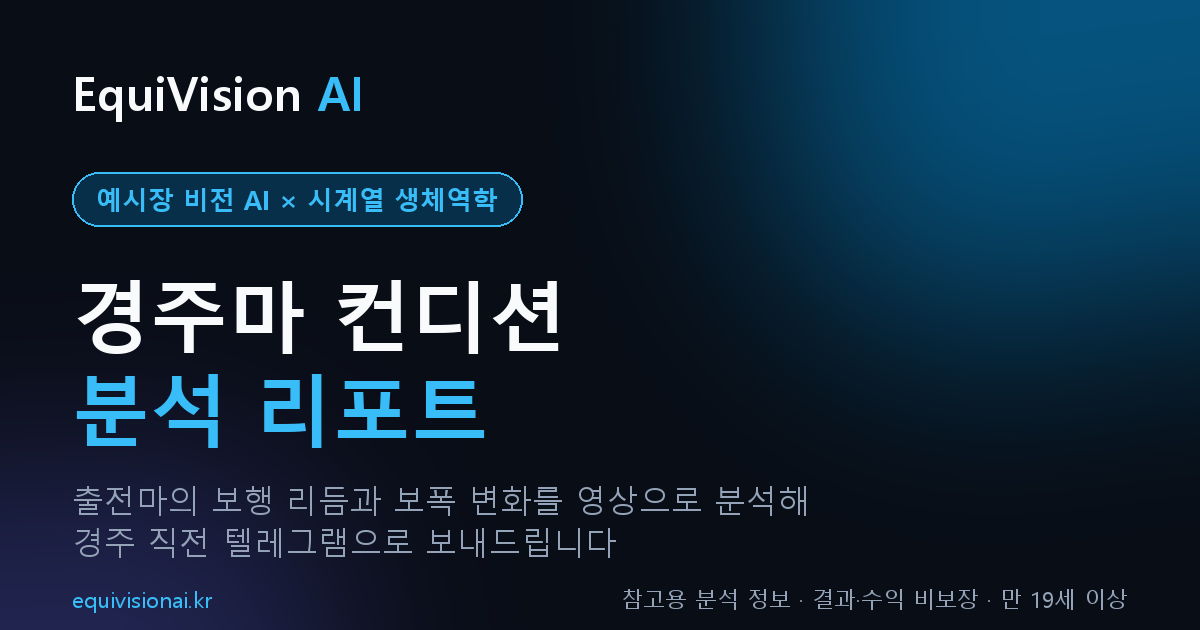
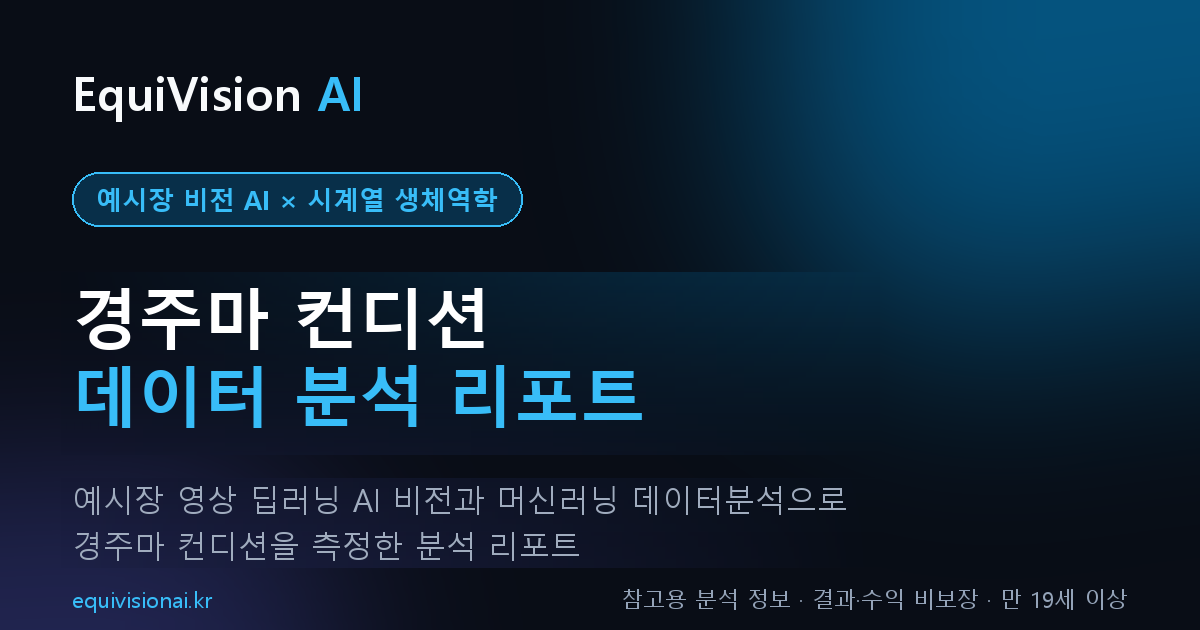
사이트 업데이트 2026-11-06 10:38

Changed region(s): [[0.0617, 0.4222, 0.6167, 0.7238], [0.0617, 0.754, 0.7092, 0.9048]]

diff --git a/index.html b/index.html
@@ -20,17 +20,17 @@
   <meta property="og:type" content="website">
   <meta property="og:locale" content="ko_KR">
   <meta property="og:site_name" content="EquiVision AI">
-  <meta property="og:title" content="이퀴비젼에이아이 | 경주마 생체역학 비전 AI">
-  <meta property="og:description" content="예시장 영상 다중 관절 추적과 시계열 생체역학 모델로 경주마 컨디션을 정량 데이터로 분석합니다.">
+  <meta property="og:title" content="이퀴비젼에이아이 | 경주마 컨디션 데이터 분석 리포트">
+  <meta property="og:description" content="머신러닝 데이터 분석과 예시장 영상 딥러닝 AI 비전으로 경주마 컨디션을 측정한 분석 리포트 (참고용 정보)">
   <meta property="og:url" content="https://equivisionai.kr/">
   <meta property="og:image" content="https://equivisionai.kr/og-image.png">
   <meta property="og:image:width" content="1200">
   <meta property="og:image:height" content="630">
-  <meta property="og:image:alt" content="EquiVision AI 경주마 컨디션 분석 리포트">
+  <meta property="og:image:alt" content="EquiVision AI 경주마 컨디션 데이터 분석 리포트">
   <meta name="twitter:card" content="summary_large_image">
   <meta name="twitter:image" content="https://equivisionai.kr/og-image.png">
-  <meta name="twitter:title" content="이퀴비젼에이아이 | 경주마 생체역학 비전 AI">
-  <meta name="twitter:description" content="예시장 영상 다중 관절 추적과 시계열 생체역학 모델로 경주마 컨디션을 정량 데이터로 분석합니다.">
+  <meta name="twitter:title" content="이퀴비젼에이아이 | 경주마 컨디션 데이터 분석 리포트">
+  <meta name="twitter:description" content="머신러닝 데이터 분석과 예시장 영상 딥러닝 AI 비전으로 경주마 컨디션을 측정한 분석 리포트 (참고용 정보)">
 
   <link rel="icon" href="favicon.ico" sizes="any">
   <link rel="apple-touch-icon" href="apple-touch-icon.png">

diff --git a/store.html b/store.html
@@ -12,15 +12,15 @@
   <meta property="og:url" content="https://equivisionai.kr/store.html">
   <meta property="og:locale" content="ko_KR">
   <meta property="og:site_name" content="EquiVision AI">
-  <meta property="og:title" content="경마 분석 리포트 | EquiVision AI">
-  <meta property="og:description" content="예시장 영상 딥러닝 AI 비전 기반 출전마 컨디션 분석 리포트 30일 이용권 안내">
+  <meta property="og:title" content="경마 데이터 분석 리포트 | EquiVision AI">
+  <meta property="og:description" content="머신러닝 데이터 분석과 예시장 영상 딥러닝 AI 비전으로 측정한 경마 분석 리포트 30일 이용권 안내">
   <meta property="og:image" content="https://equivisionai.kr/og-image.png">
   <meta property="og:image:width" content="1200">
   <meta property="og:image:height" content="630">
   <meta property="og:image:alt" content="EquiVision AI 경주마 컨디션 분석 리포트">
   <meta name="twitter:card" content="summary_large_image">
   <meta name="twitter:title" content="경마 분석 리포트 | EquiVision AI">
-  <meta name="twitter:description" content="예시장 영상 딥러닝 AI 비전 기반 출전마 컨디션 분석 리포트 30일 이용권 안내">
+  <meta name="twitter:description" content="머신러닝 데이터 분석과 예시장 영상 딥러닝 AI 비전으로 측정한 경마 분석 리포트 30일 이용권 안내">
   <meta name="twitter:image" content="https://equivisionai.kr/og-image.png">
   <link rel="icon" href="favicon.ico" sizes="any">
   <link rel="apple-touch-icon" href="apple-touch-icon.png">

diff --git a/reports/index.html b/reports/index.html
@@ -7,7 +7,7 @@
   <meta name="theme-color" content="#0f766e">
   <meta name="apple-mobile-web-app-capable" content="yes">
   <meta name="mobile-web-app-capable" content="yes">
-  <meta name="apple-mobile-web-app-title" content="리포트">
+  <meta name="apple-mobile-web-app-title" content="이퀴비젼 리포트">
   <link rel="apple-touch-icon" href="/report-apple-touch-icon.png">
   <link rel="manifest" href="/manifest-reports.json">
   <link rel="icon" href="/favicon.ico">
